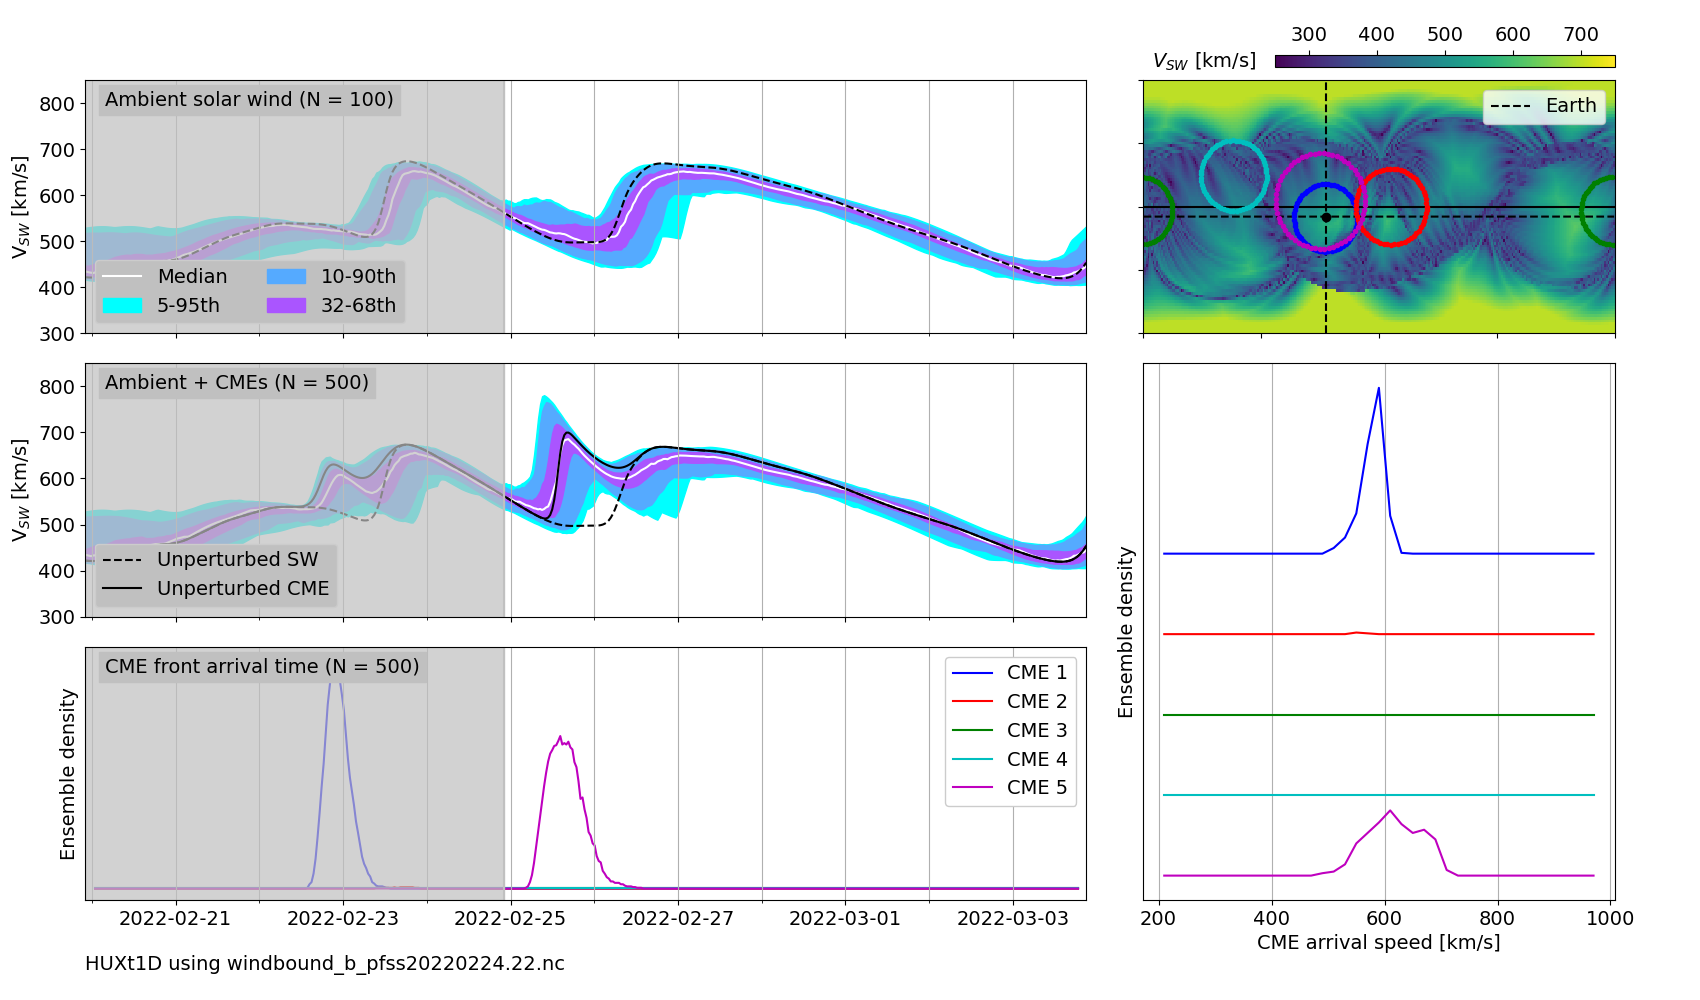
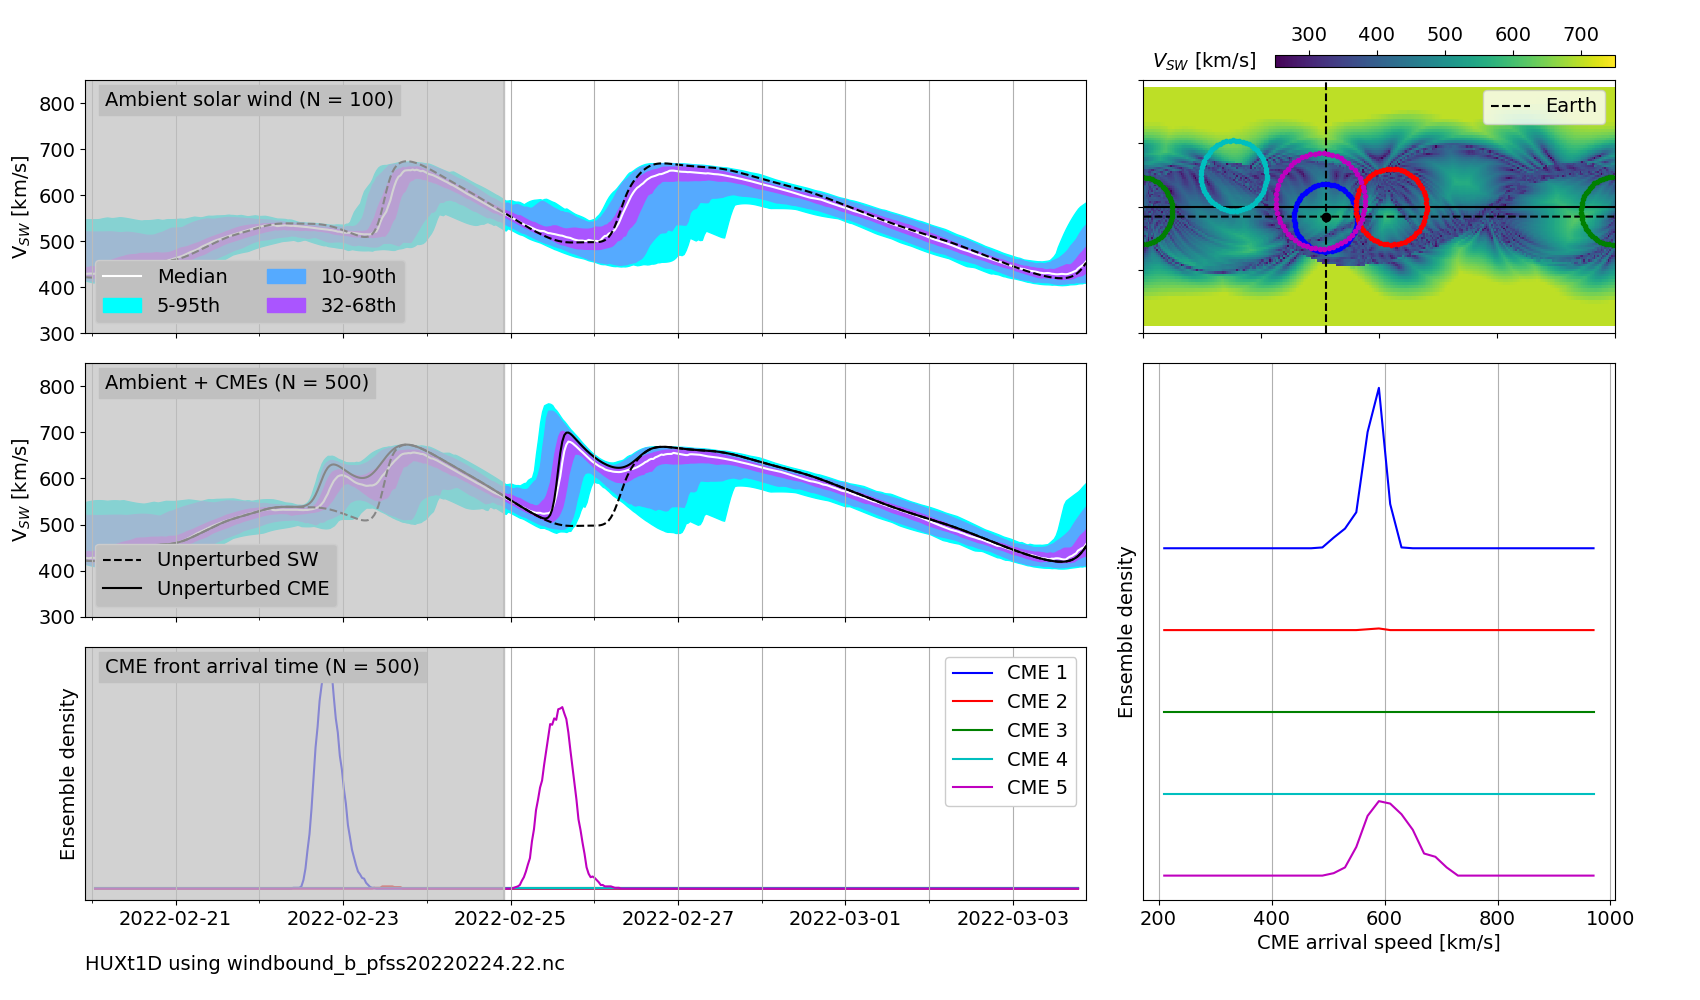
Bug fixes

diff --git a/huxt_ensembles.py b/huxt_ensembles.py
@@ -281,9 +281,6 @@ def ambient_ensemble(vr_map, lons, lats, starttime,
     #create the mesh grid
     phi, theta = np.meshgrid(lons, lats, indexing = 'xy')
     
-    ntheta = len(phi[:,0])
-    vr_longs = phi[int(np.floor(ntheta/2))+1,:]
-    
     #get the huxt params for the start time
     cr, cr_lon_init = Hin.datetime2huxtinputs(starttime)
     
@@ -298,7 +295,7 @@ def ambient_ensemble(vr_map, lons, lats, starttime,
     #retrieve a bodies position at each model timestep:
     earth = dummymodel.get_observer('earth')
     #get Earth lat as a function of longitude (not time)
-    E_lat = np.interp(vr_longs,np.flipud(earth.lon_c),np.flipud(earth.lat_c))
+    E_lat = np.interp(lons,np.flipud(earth.lon_c),np.flipud(earth.lat_c))
     E_r = np.mean(earth.r)
     
     #find the gridcell which corresponds to this.
@@ -320,7 +317,7 @@ def ambient_ensemble(vr_map, lons, lats, starttime,
     phi128 = np.linspace(dphi/2, 2*np.pi - dphi/2, 128)
     for i in range(0, N_ens_amb):
         vr128_ensemble[i,:] = np.interp(phi128,
-                      vr_longs.value,vr_ensemble[i,:])
+                      lons.value,vr_ensemble[i,:])
         
     #==============================================================================
     #run huxt with the ambient ensemble
@@ -497,7 +494,7 @@ def cme_ensemble(huxtinput_ambient, starttime, cme_list,
 # cmearrivaltimes = cortom_cmearrivaltimes
 # cmearrivalspeeds = cortom_cmearrivalspeeds
 
-def plot_ensemble_dashboard(time, vr_map, cme_list,
+def plot_ensemble_dashboard(time, vr_map, map_lon, map_lat, cme_list,
                             huxtoutput_ambient, huxtoutput_cme,
                             cmearrivaltimes, cmearrivalspeeds, 
                             forecasttime,
@@ -555,12 +552,8 @@ def plot_ensemble_dashboard(time, vr_map, cme_list,
     
     
     #recreate the long and lat grid
-    nlong = len(vr_map[0,:])
-    nlat = len(vr_map[:,0])
-    dphi = 2*np.pi/nlong 
-    vr_longs = np.arange(dphi/2, 2*np.pi - dphi/2 +0.0001, dphi) * u.rad
-    dthet = np.pi/nlat 
-    vr_lats = np.arange(-np.pi/2 + dthet/2, np.pi/2 -dphi/2 +0.001, dthet) * u.rad
+    vr_longs = map_lon
+    vr_lats = map_lat
     
     #Use the HUXt ephemeris data to get Earth lat over the CR
     #========================================================
@@ -1115,6 +1108,8 @@ def sweep_ensemble_run(forecasttime, savedir =[],
     # Plot and save the individual ensemble dashboards
     for listno in range(0, len(run_list)):
         fig, axs = plot_ensemble_dashboard(ambient_time, vr_map_list[listno],
+                                           lon_list[listno], 
+                                           lat_list[listno],
                                            cme_list,
                                     huxtoutput_ambient_list[listno],
                                     huxtoutput_cme_list[listno],

diff --git a/huxt_ensembles_example.py b/huxt_ensembles_example.py
@@ -19,7 +19,7 @@ forecasttime = datetime.datetime(2022,2,24,22,0,0)
 # set the directory of this file as the working directory
 cwd = os.path.abspath(os.path.dirname(__file__))
 #the filenames should then be generated from the forecast date
-wsafilepath = os.path.join(cwd, 'data', '2022-02-24T22Z.wsa.gong.fits')
+wsafilepath =  os.path.join(cwd, 'data', '2022-02-24T22Z.wsa.gong.fits')
 pfssfilepath = os.path.join(cwd, 'data','windbound_b_pfss20220224.22.nc') 
 cortomfilepath = os.path.join(cwd, 'data','tomo_8.00_20220224_tomo.txt')
 dumfricfile =  ""
